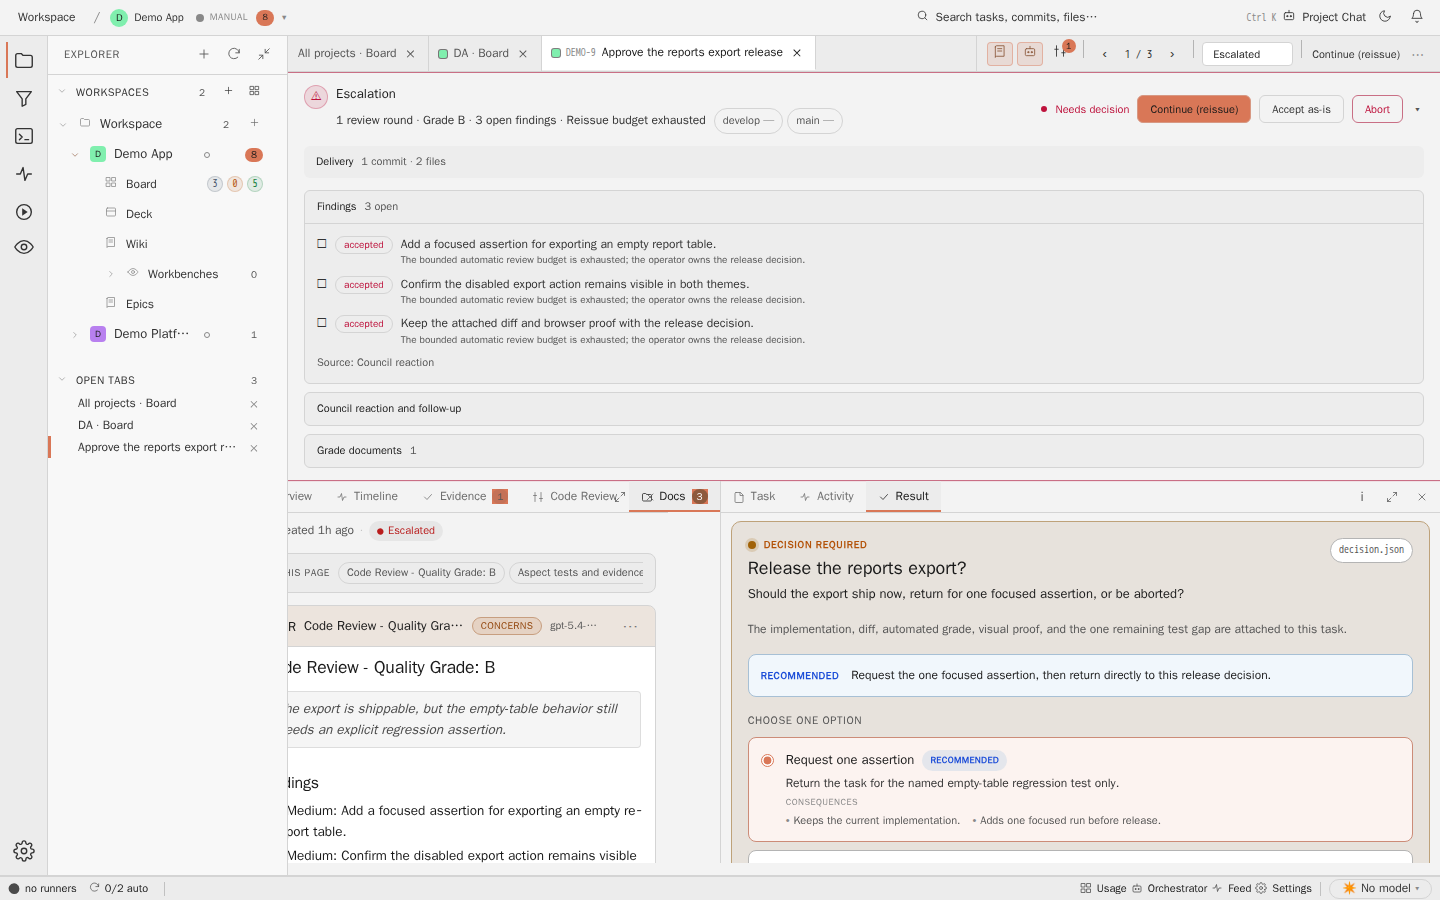
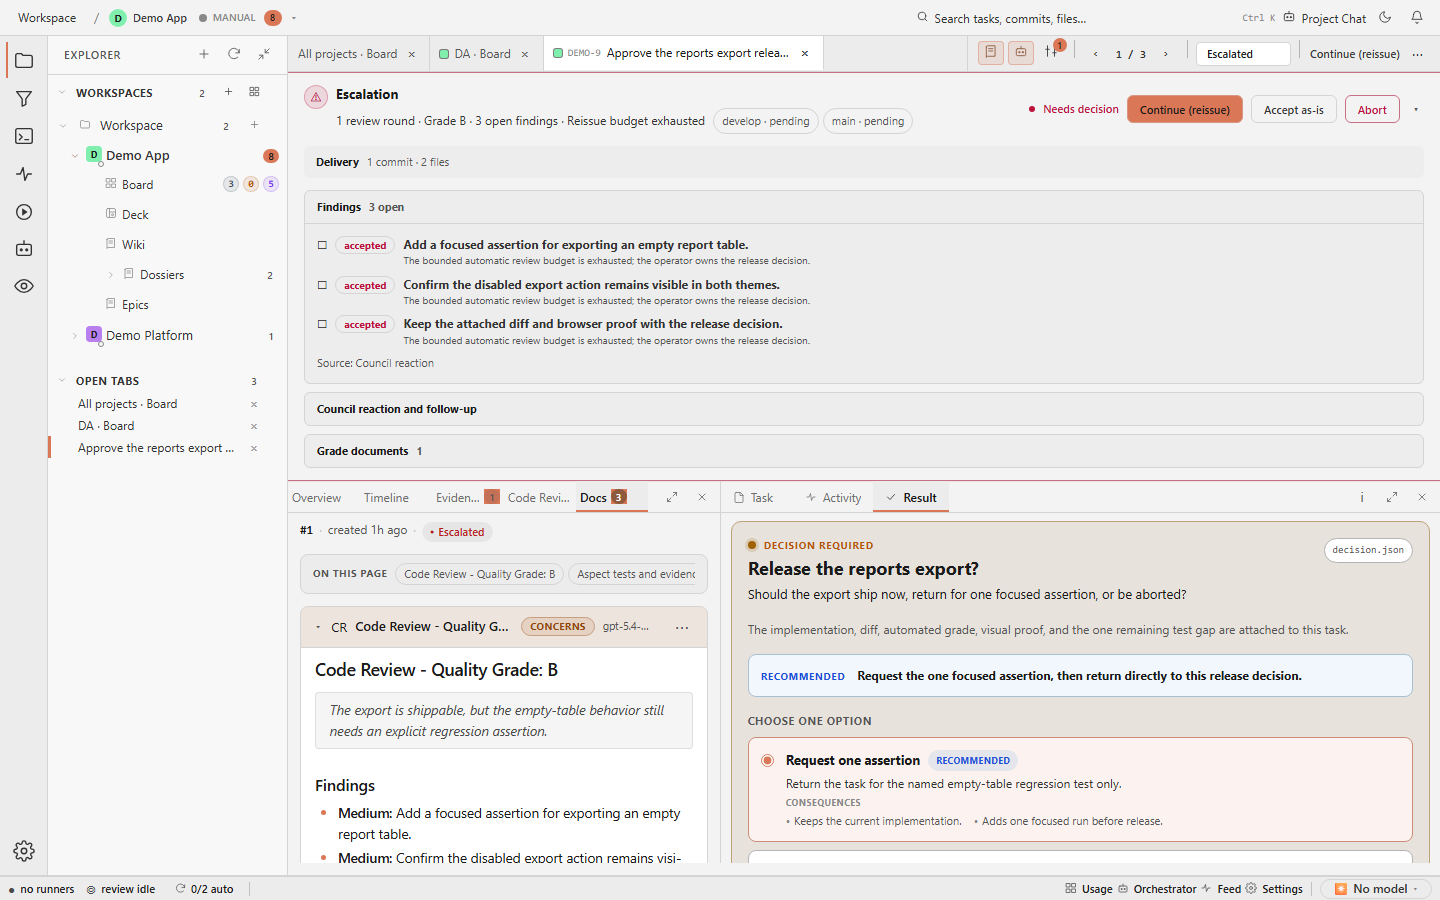
visual-features: Pinned-Shot-Recapture — Scroll-Reset, Overview/Protocol-Tabs getrennt, Warte-Bedingungen (B0, Dossier WEB-W1)
Ursachen behoben: Playwright-Tab-Klicks scrollten den Pane-Container
horizontal weg (vier beschnittene Shots); Protocol-Shot klickte den bereits
aktiven Overview-Tab (Duplikat). Spec: resetHorizontalScroll vor jedem Shot,
explizite inspector-Tab-Klicks, waitForLoadingPlaceholders + Grade-B-Wartung.
11 readme-Suite-Bilder regeneriert (1440x900, Hashes paarweise verschieden,
DEV-Chrome unsichtbar); validate.mjs passed (13 images). Presentation-Stills
bewusst nicht neu aufgenommen.

diff --git a/frontend/e2e/visual-evidence/readme-screenshots.spec.ts b/frontend/e2e/visual-evidence/readme-screenshots.spec.ts
@@ -27,7 +27,46 @@ async function applyVisualCaptureMode(page: Page): Promise<void> {
   });
 }
 
+// Playwright scrolls a target into view before clicking it. The task-detail
+// panes are horizontally scrollable (their content needs more width than the
+// 1440px capture viewport leaves them), so clicking a tab far to the right of a
+// pane tab strip - Docs, Code Review - drags the WHOLE pane sideways, and the
+// pane keeps that offset for every later shot. That is how the evidence,
+// timeline, docs, and code-review captures ended up starting mid-word
+// ("UAL EVIDENCE", "HIS PAGE"). Park every scroll container back at its left
+// edge right before the screenshot so each image starts at the real left edge.
+async function resetHorizontalScroll(page: Page): Promise<void> {
+  await page.evaluate(() => {
+    for (const el of Array.from(document.querySelectorAll<HTMLElement>('*'))) {
+      if (el.scrollLeft !== 0) el.scrollLeft = 0;
+    }
+    if (window.scrollX !== 0) window.scrollTo(0, window.scrollY);
+  });
+}
+
+// Several panes render a "Loading..." placeholder while their document, code
+// review, or agent-work payload is still in flight. A screenshot taken in that
+// window documents the spinner instead of the feature, so hold the shot until
+// no visible placeholder is left.
+async function waitForLoadingPlaceholders(page: Page, timeoutMs = 15_000): Promise<void> {
+  const deadline = Date.now() + timeoutMs;
+  while (Date.now() < deadline) {
+    const stillLoading = await page.evaluate(() =>
+      Array.from(document.querySelectorAll('*')).some(
+        (el) =>
+          el.children.length === 0 &&
+          el.textContent?.trim() === 'Loading...' &&
+          (el as HTMLElement).offsetParent !== null,
+      ),
+    );
+    if (!stillLoading) return;
+    await page.waitForTimeout(250);
+  }
+}
+
 async function capture(page: Page, fileName: string) {
+  await waitForLoadingPlaceholders(page);
+  await resetHorizontalScroll(page);
   await page.evaluate(() => new Promise<void>((resolve) => {
     requestAnimationFrame(() => requestAnimationFrame(() => resolve()));
   }));
@@ -112,7 +151,25 @@ test('readme screenshots - board and task detail states', async ({ page }) => {
   await openPinnedTask(page, PRIMARY_TASK_LABEL);
   await expect(page.getByTestId('pane-protocol')).toBeVisible({ timeout: 10_000 });
   await expect(page.getByTestId('overview-tab')).toBeVisible({ timeout: 10_000 });
+  // The escalation header and the pipeline section hydrate a moment after the
+  // task opens. Capturing straight away froze the intermediate state
+  // ("0 review rounds - Grade not recorded"), so wait for the settled pinned
+  // review summary before the first task-detail shot.
+  await expect(page.getByTestId('escalation-essence')).toContainText('Grade B', { timeout: 20_000 });
+  // The overview shot is the prompt pane's Overview tab beside the inspector's
+  // Task tab. Selecting the inspector tab explicitly is what keeps this shot
+  // distinct from the protocol shot below: the inspector opens on the protocol
+  // tab by default, so without this the two captures were byte-identical.
+  await page.getByTestId('inspector-tab-task').click();
+  await expect(page.getByTestId('inspector-tab-task')).toHaveAttribute('aria-selected', 'true');
   await capture(page, 'detail-overview--pinned.png');
+
+  // Protocol shot: same panes, inspector switched to the protocol tab (labelled
+  // "Result" in the UI; the testid keeps the original `protocol` name).
+  await page.getByTestId('inspector-tab-protocol').click();
+  await expect(page.getByTestId('inspector-tab-protocol')).toHaveAttribute('aria-selected', 'true');
+  await expect(page.getByTestId('pane-protocol')).toBeVisible({ timeout: 10_000 });
+  await capture(page, 'detail-protocol--pinned.png');
 
   await page.getByTestId('prompt-tab-description').click();
   await expect(page.getByTestId('files-pane')).toBeVisible({ timeout: 10_000 });
@@ -130,9 +187,9 @@ test('readme screenshots - board and task detail states', async ({ page }) => {
   await expect(page.getByTestId('code-review-panel')).toBeVisible({ timeout: 10_000 });
   await capture(page, 'detail-code-review--pinned.png');
 
+  // Back to the prompt pane's Overview tab for the remaining pane-layout shots.
   await page.getByTestId('prompt-tab-overview').click();
   await expect(page.getByTestId('pane-protocol')).toBeVisible({ timeout: 10_000 });
-  await capture(page, 'detail-protocol--pinned.png');
 
   await page.getByTestId('inspector-tab-activity').click();
   await expect(page.getByTestId('activity-panel')).toBeVisible({ timeout: 10_000 });

diff --git a/docs/quality/visual-features/features/task-detail-protocol.md b/docs/quality/visual-features/features/task-detail-protocol.md
@@ -12,7 +12,8 @@ happened, what evidence exists, and why the task is ready for review.
 - Route: `/tasks/DEMO-9`
 - Viewport: `1440x900`
 - Data state: pinned DEMO-9 task selected by the Playwright spec
-- Visible state: task prompt and protocol pane are visible together
+- Visible state: the Overview tab and the protocol pane (labelled Result in the
+  inspector) are visible together
 
 This state matters because a reviewer should not have to reconstruct task
 history from a terminal transcript. The protocol pane keeps the review story
@@ -29,9 +30,10 @@ Manifest id: `task-detail-protocol`
 The Playwright spec:
 
 1. Opens `/`.
-2. Opens the preferred pinned DEMO-9 task card.
+2. Opens the pinned DEMO-9 task card.
 3. Waits for `pane-protocol`.
-4. Captures `docs/assets/images/detail-protocol--pinned.png`.
+4. Clicks `inspector-tab-protocol`.
+5. Captures `docs/assets/images/detail-protocol--pinned.png`.
 
 ## Marketing Usage
 

diff --git a/docs/quality/visual-features/features/task-detail-overview.md b/docs/quality/visual-features/features/task-detail-overview.md
@@ -14,7 +14,8 @@ current review posture in one place.
 - Route: `/tasks/DEMO-9`
 - Viewport: `1440x900`
 - Data state: pinned DEMO-9 task selected from the live board
-- Visible state: Overview tab, task status, agent block, references, and pipeline
+- Visible state: Overview tab, task status, agent block, references, and pipeline,
+  with the inspector on the Task tab
 
 ## How To Recreate The Screenshot
 
@@ -22,8 +23,9 @@ current review posture in one place.
 ./scripts/visual-docs/generate.sh
 ```
 
-The Playwright spec opens the board, selects a preferred pinned DEMO-9 task such as
-`ASS-847`, waits for `overview-tab`, and captures
+The Playwright spec opens the board, selects the pinned DEMO-9 task, waits for
+`overview-tab` and for the settled review summary in `escalation-essence`, clicks
+`inspector-tab-task`, and captures
 `docs/assets/images/detail-overview--pinned.png`.
 
 ## Marketing Usage
